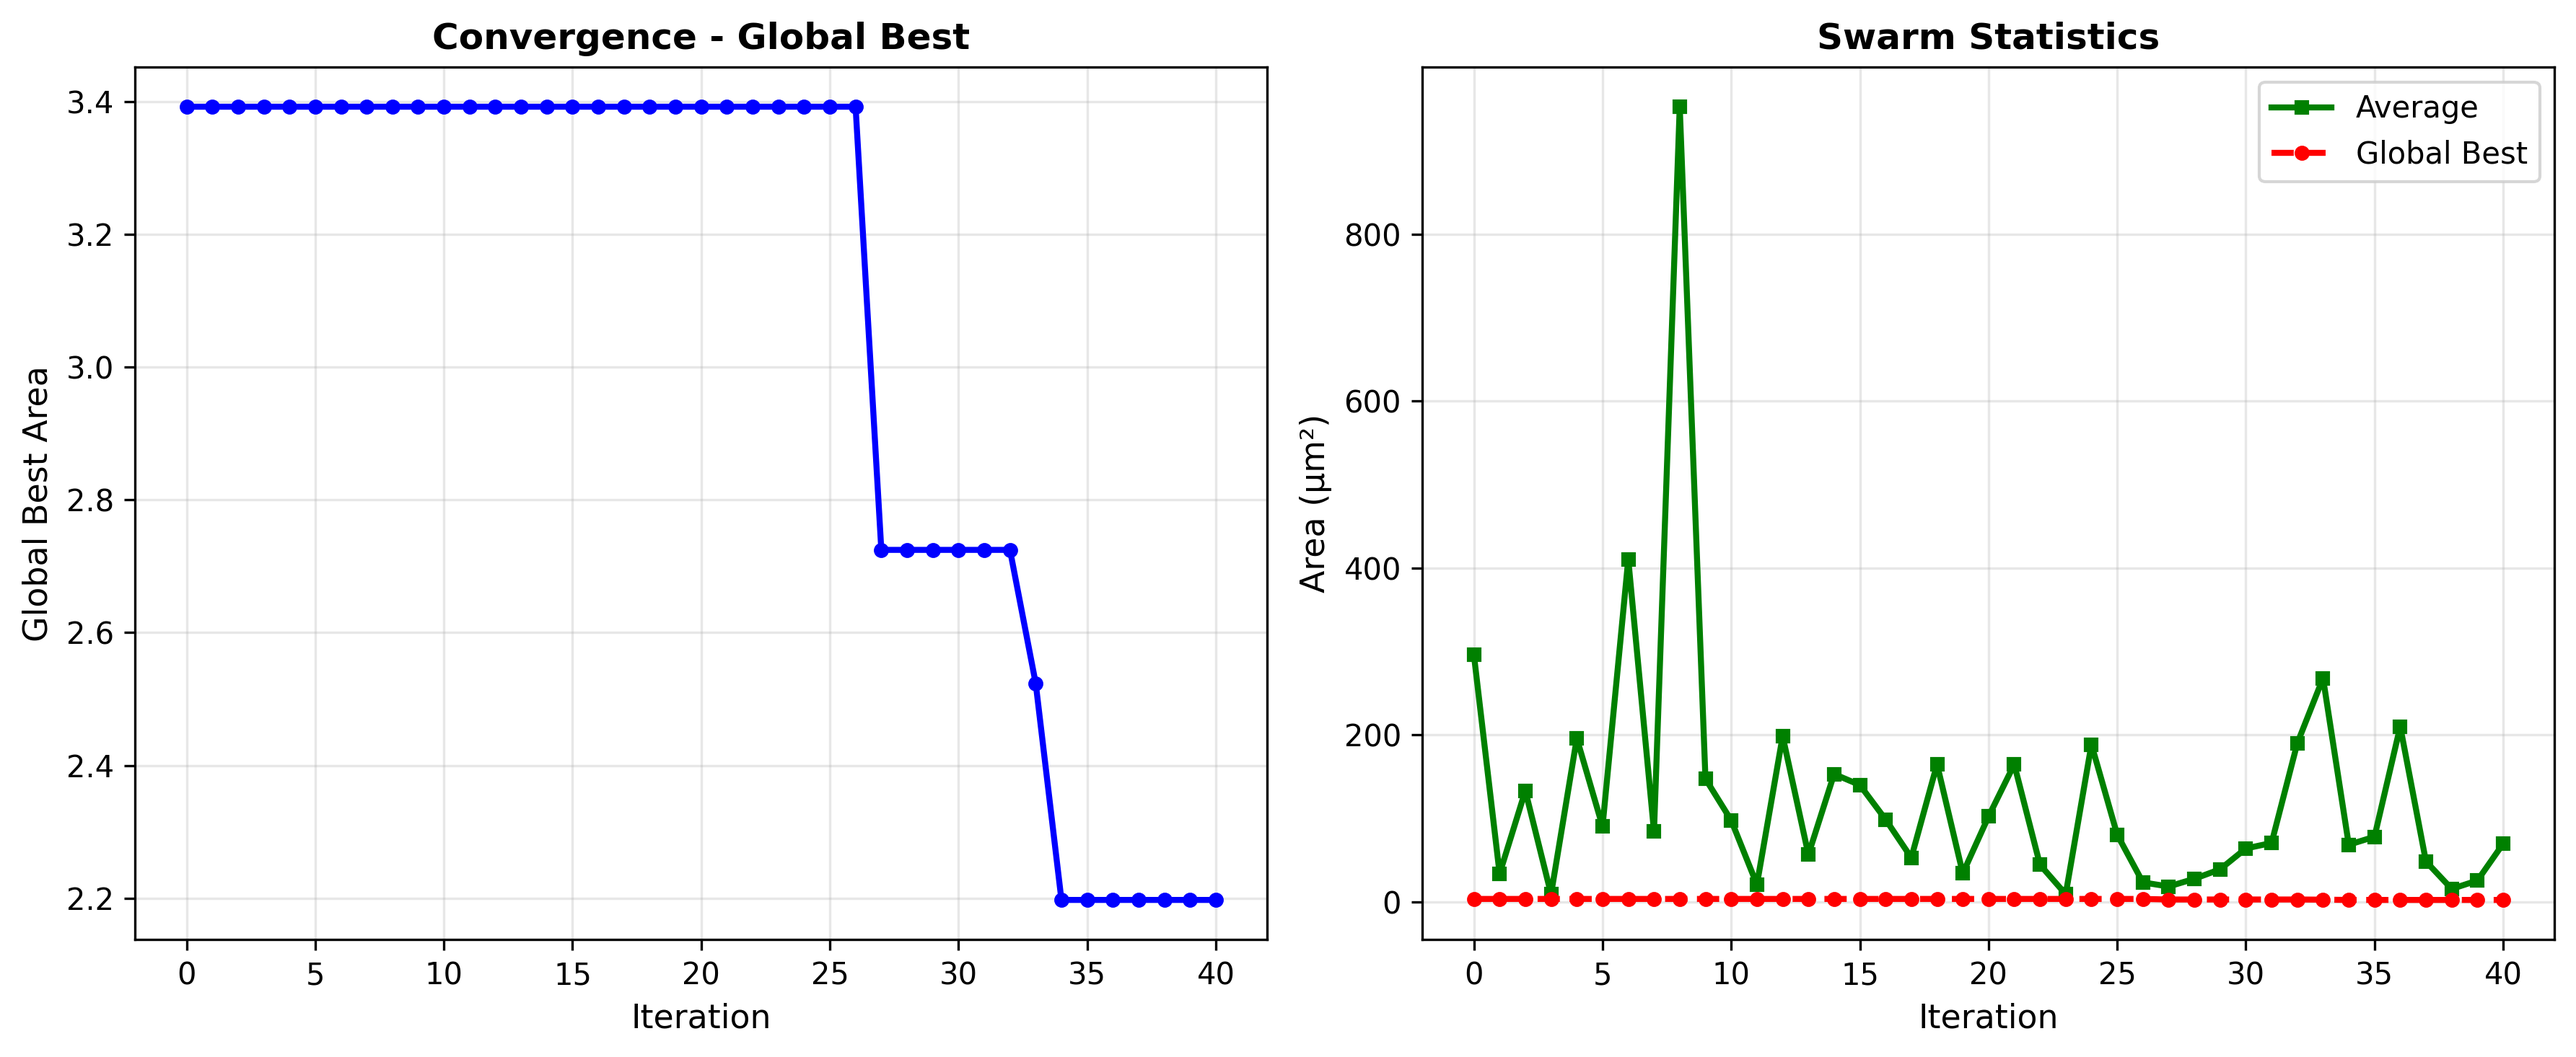
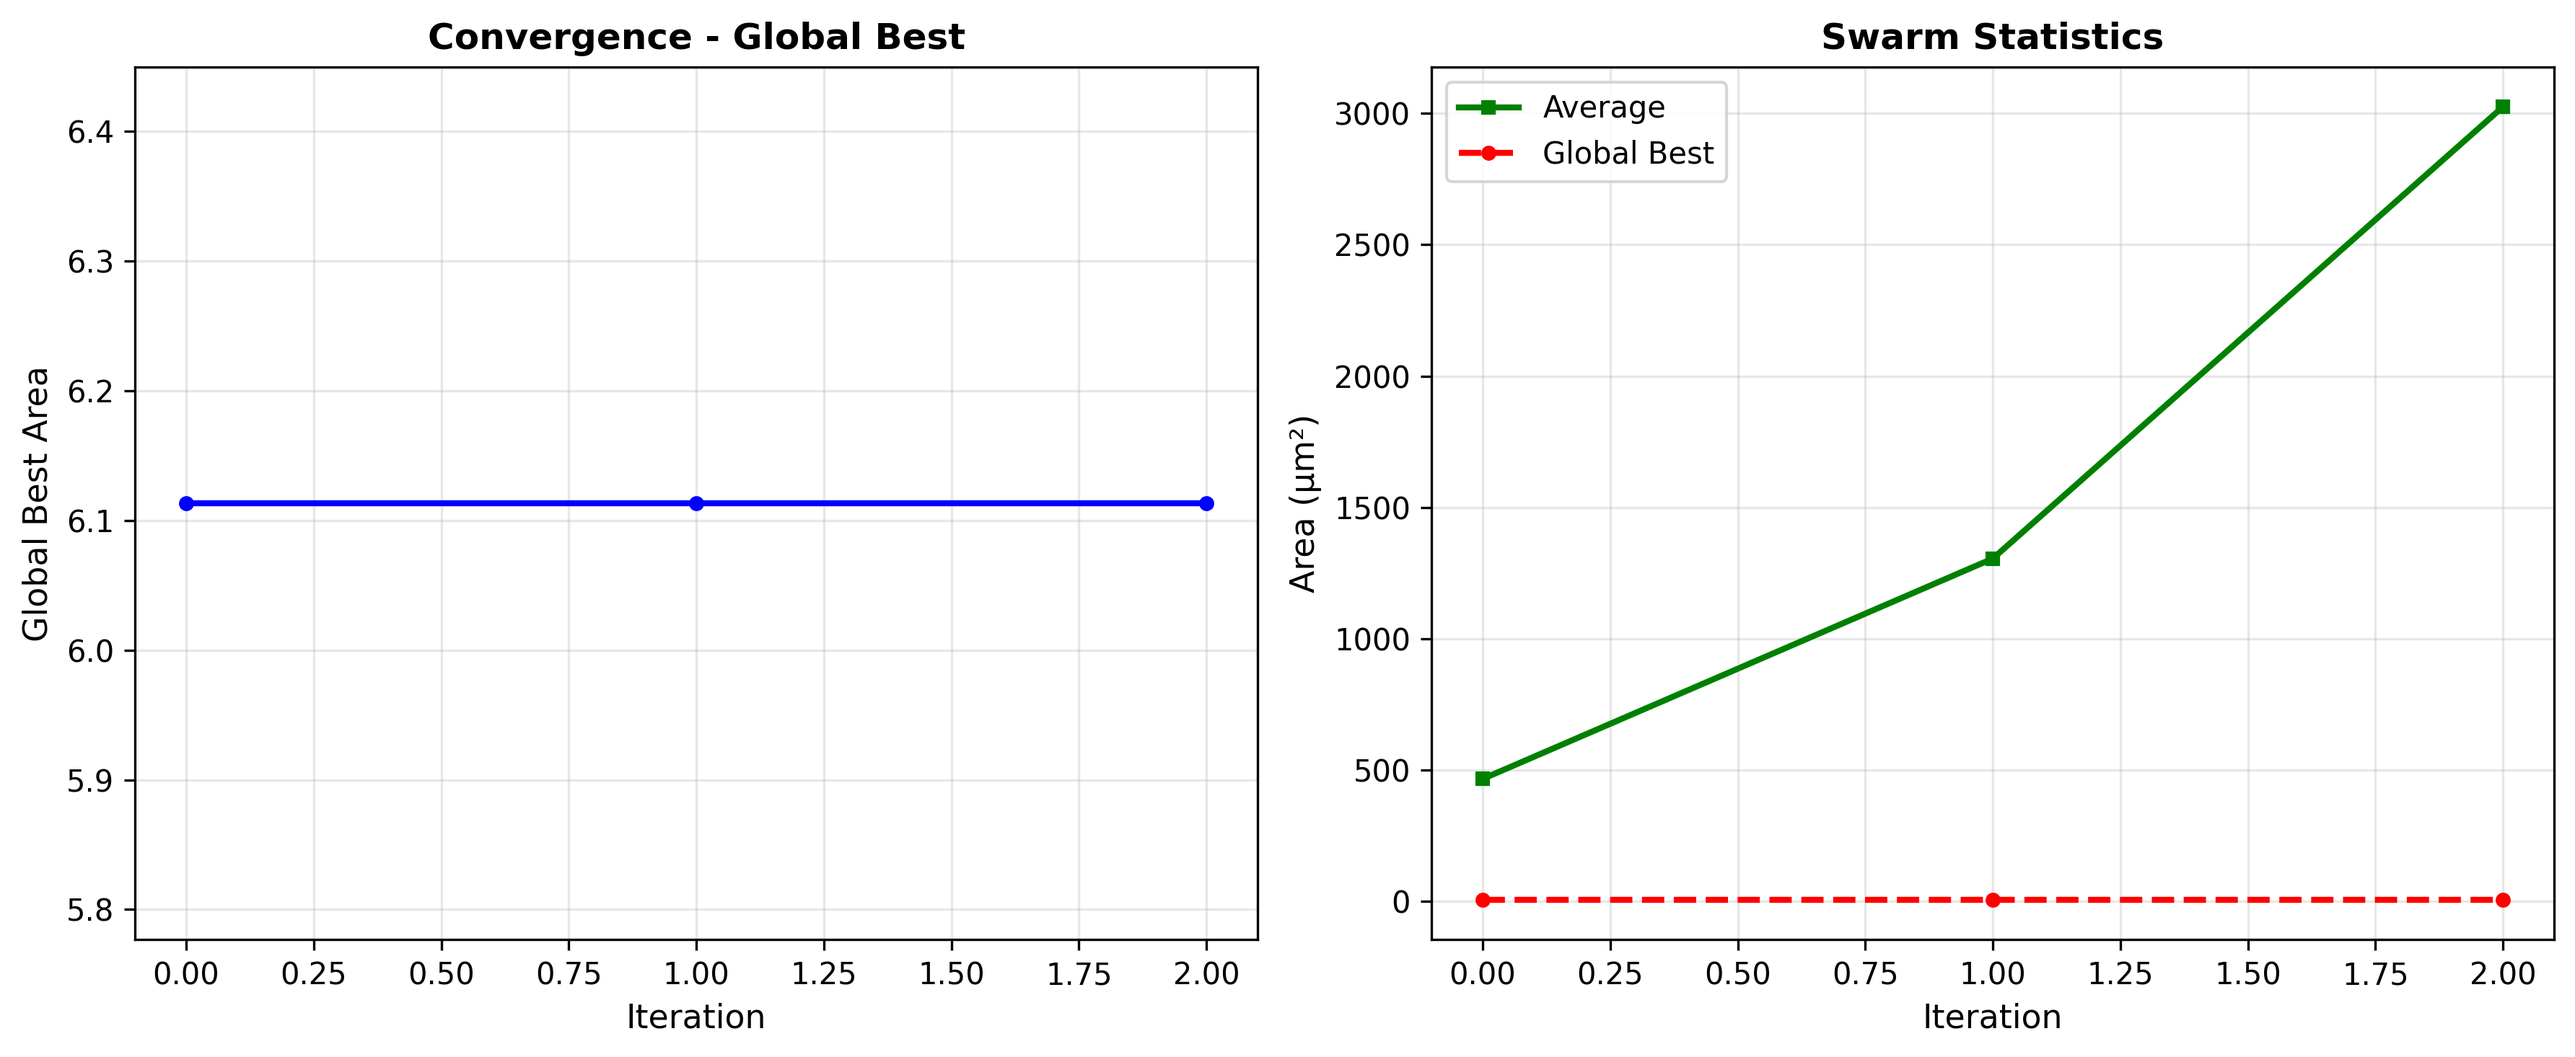
Fixed initial particle generation error

diff --git a/Complete Framework/5T-OTA/particle_generation.py b/Complete Framework/5T-OTA/particle_generation.py
@@ -1,4 +1,6 @@
 import numpy as np
+from gmID_sizing import get_W
+from simulator import evaluate_design
 from survivability_check import survivability_test, L_DISCRETE_VALUES
 
 def generate_particle(cont_bounds, n_L_values, max_attempts=1000):
@@ -20,6 +22,39 @@ def generate_particle(cont_bounds, n_L_values, max_attempts=1000):
     
     return None, np.inf, None
 
+def generate_initial_particle(cont_bounds, n_L_values, max_attempts=1000):
+
+    for attempt in range(max_attempts):
+        gm1 = np.random.uniform(cont_bounds[0][0], cont_bounds[0][1])
+        gm2 = np.random.uniform(cont_bounds[1][0], cont_bounds[1][1])
+        ID = np.random.uniform(cont_bounds[2][0], cont_bounds[2][1])
+        
+        L_1_idx = np.random.randint(0, n_L_values)
+        L_2_idx = np.random.randint(0, n_L_values)
+        
+        particle = np.array([gm1, gm2, L_1_idx, L_2_idx, ID])
+        passed, area, specs = survivability_test(particle)
+
+        L_1 = L_DISCRETE_VALUES[int(L_1_idx)]
+        L_2 = L_DISCRETE_VALUES[int(L_2_idx)]
+        W_1, W_2, _, _, _ = get_W(gm1, gm2, L_1, L_2, ID)
+
+        if passed and W_1 is not None and W_2 is not None:
+            sim_passed, meas = evaluate_design(W_1, L_1, W_2, L_2, ID*1e6)
+            specs['SR'] = meas['SR_meas']
+            specs['GBW'] = meas['GBW_meas']
+            specs['Gain_dB'] = meas['Gain_meas_dB']
+            specs['Gain'] = 10**(meas['Gain_meas_dB']/20)
+            specs['PM'] = meas['PM_meas']
+            specs['Power'] = meas['Power_meas']
+        else:
+            sim_passed = False
+        
+        if sim_passed:
+            return particle, area, specs
+    
+    return None, np.inf, None
+
 def generate_N_particles(cont_bounds, n_L_values, N, verbose=False):
 
     particles = []
@@ -30,7 +65,7 @@ def generate_N_particles(cont_bounds, n_L_values, N, verbose=False):
         print(f"Generating {N} valid particles...")
     
     for i in range(N):
-        particle, area, specs = generate_particle(cont_bounds, n_L_values)
+        particle, area, specs = generate_initial_particle(cont_bounds, n_L_values)
         
         if particle is not None:
             particles.append(particle)

diff --git a/Complete Framework/5T-OTA/specs.py b/Complete Framework/5T-OTA/specs.py
@@ -1,9 +1,10 @@
 import numpy as np
 
-# 5T OTA design specifications and parameters
+# 5T OTA design parameters
 VDD = 1.8
 CL  = 2e-12
 
+# 5T OTA design specifications
 SR_spec = 1e6
 GBW_spec = 1e6
 Gain_spec_dB = 38
@@ -12,8 +13,8 @@ PM_spec = 65
 Power_spec = 10e-6
 
 # Mixed Variable Hybrid-PSO parameters
-N_PARTICLES = 10
-MAX_ITERATIONS = 40
+N_PARTICLES = 5
+MAX_ITERATIONS = 2
 MAX_VELOCITY_UPDATES = 3
 
 # Range of sizing variables
